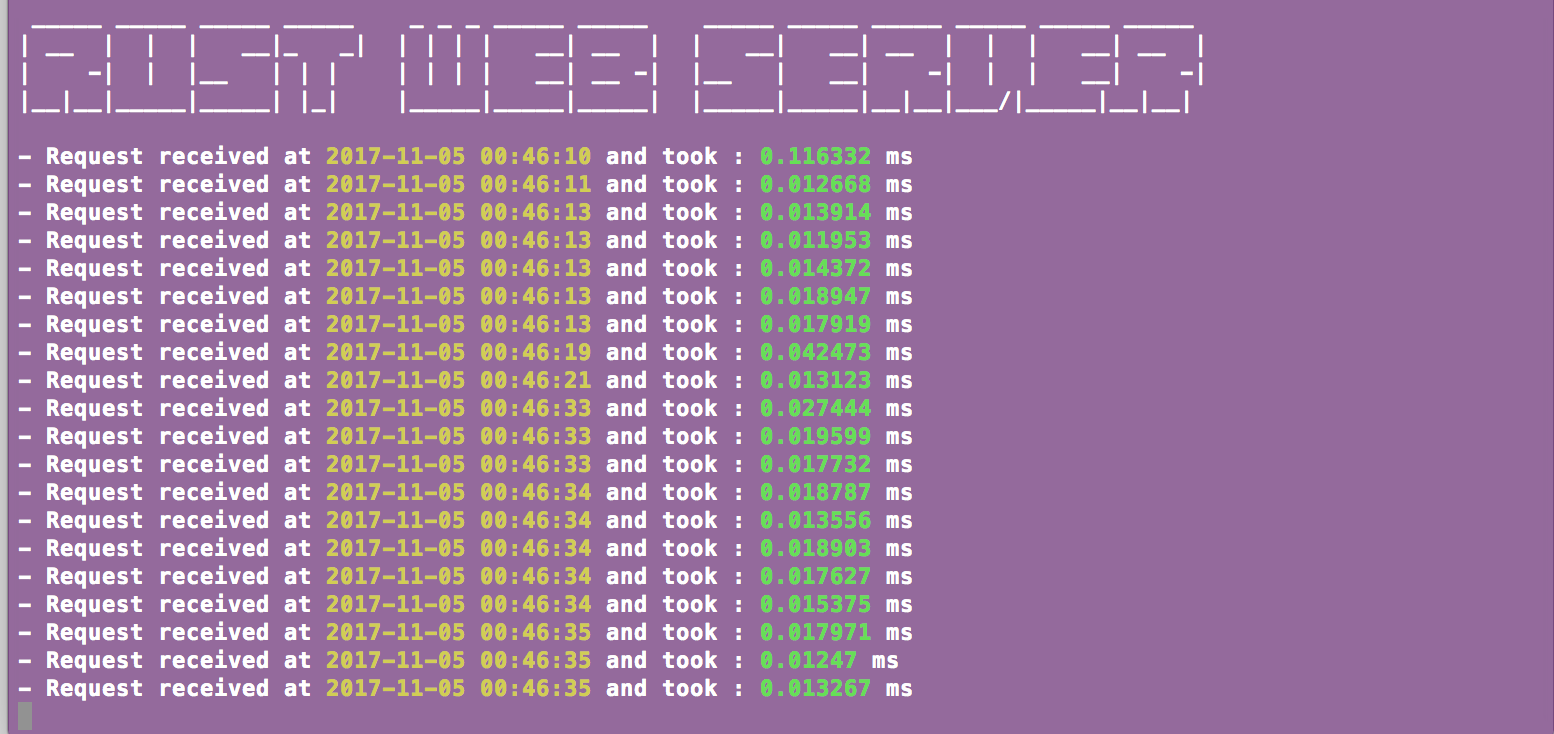
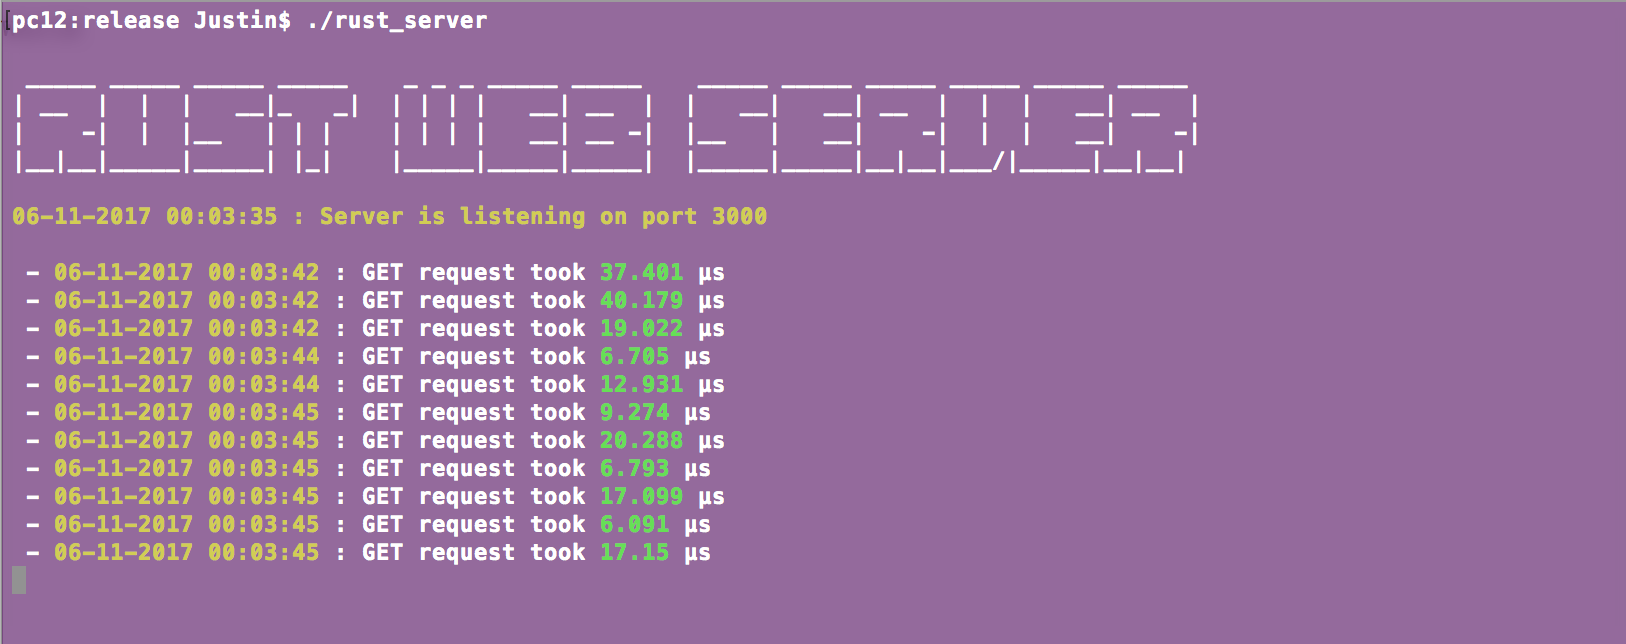
Improve logging

Changed region(s): [[0.0, 0.0, 0.7722, 1.0], [0.9884, 0.0, 1.0, 0.0311], [0.7104, 0.1863, 0.7413, 0.2174]]

diff --git a/src/main.rs b/src/main.rs
@@ -32,10 +32,11 @@ impl BeforeMiddleware for ResponseTime {
 
 impl AfterMiddleware for ResponseTime {
     fn after(&self, req: &mut Request, res: Response) -> IronResult<Response> {
+
         let delta = precise_time_ns() - *req.extensions.get::<ResponseTime>().unwrap();
         let date = Local::now();
 
-        println!("- Request received at {} and took : {} ms", date.format("%Y-%m-%d %H:%M:%S").to_string().yellow().bold() ,((delta as f64) / 1000000.0).to_string().green().bold() );
+        println!(" - {} : {} request took {} μs" , date.format("%d-%m-%Y %H:%M:%S").to_string().yellow().bold() ,&req.method, ((delta as f64) / 1000.0).to_string().green().bold() );
         Ok(res)
     }
 }
@@ -69,6 +70,10 @@ fn main() {
     let mut chain = Chain::new(router);
     chain.link_before(ResponseTime);
     chain.link_after(ResponseTime);
+
+    let date = Local::now();
+
+    println!("{} {}", date.format("%d-%m-%Y %H:%M:%S").to_string().yellow().bold() , ": Server is listening on port 3000 \n".yellow().bold());
 
     Iron::new(chain).http("localhost:3000").unwrap();
 }
